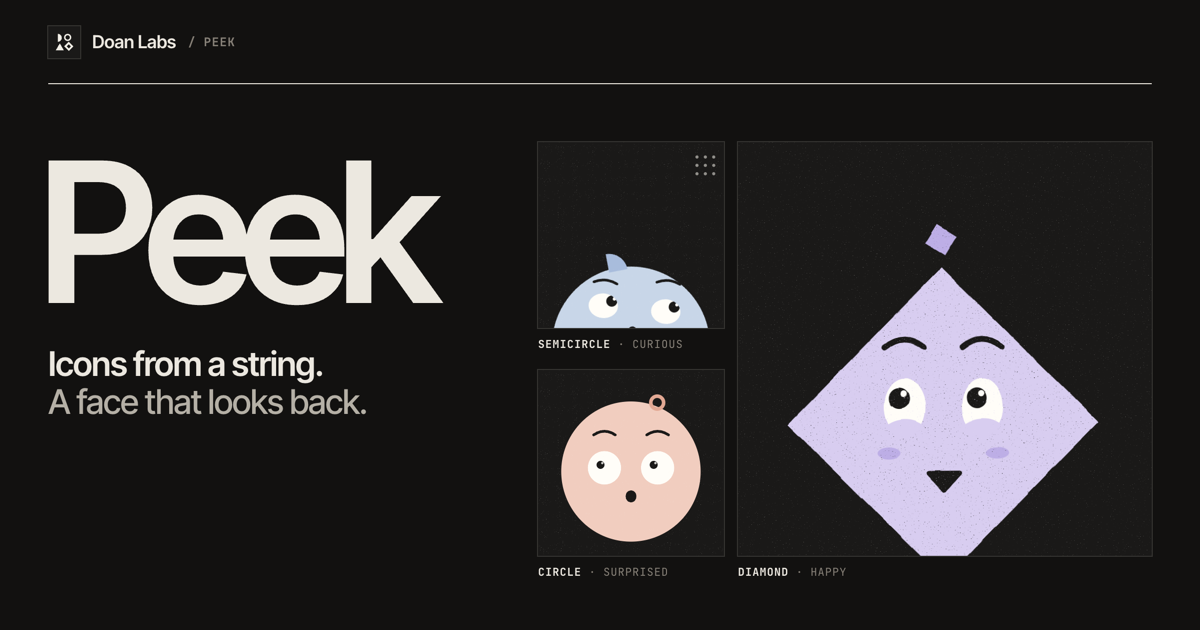
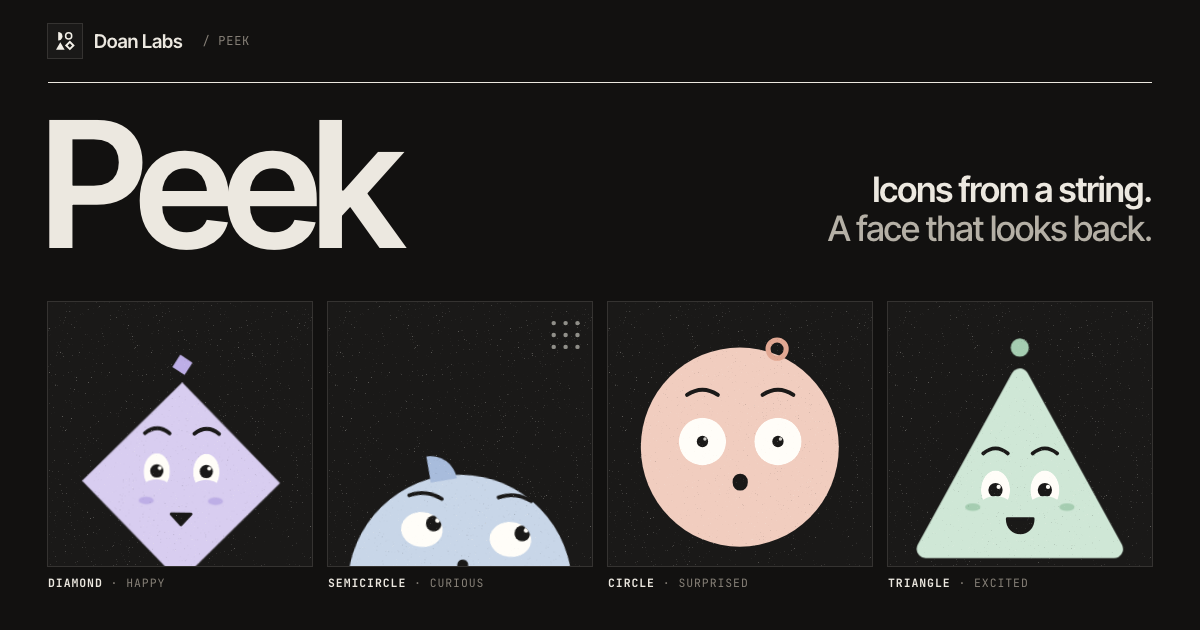
Put the triangle on the share card, all four faces in a row

diff --git a/apps/web/src/routes/__root.tsx b/apps/web/src/routes/__root.tsx
@@ -18,7 +18,7 @@ const CARD = `${import.meta.env.DEV ? '' : SITE}/og.png`
 const TITLE = 'Peek · Coming soon'
 const DESCRIPTION = 'Peek, from Doan Labs. Coming soon.'
 const CARD_ALT =
-  'Peek, icons from a string: a curious semicircle, a surprised circle and a happy diamond, each in its own ink frame.'
+  'Peek, icons from a string: a happy diamond, a curious semicircle, a surprised circle and an excited triangle, each in its own ink frame.'
 
 const styles = stylex.create({
   body: { backgroundColor: colors['--ground'] },
@@ -33,7 +33,7 @@ export const Route = createRootRoute({
       { name: 'description', content: DESCRIPTION },
       { name: 'theme-color', content: '#121110' },
       /* The share card, public/og.png, 1200x630: a sheet from the Avatar
-       * Studio, three faces in riso print. X reads only the twitter: tags,
+       * Studio, four faces in riso print. X reads only the twitter: tags,
        * so they repeat the og: ones. */
       { property: 'og:title', content: TITLE },
       { property: 'og:description', content: DESCRIPTION },
